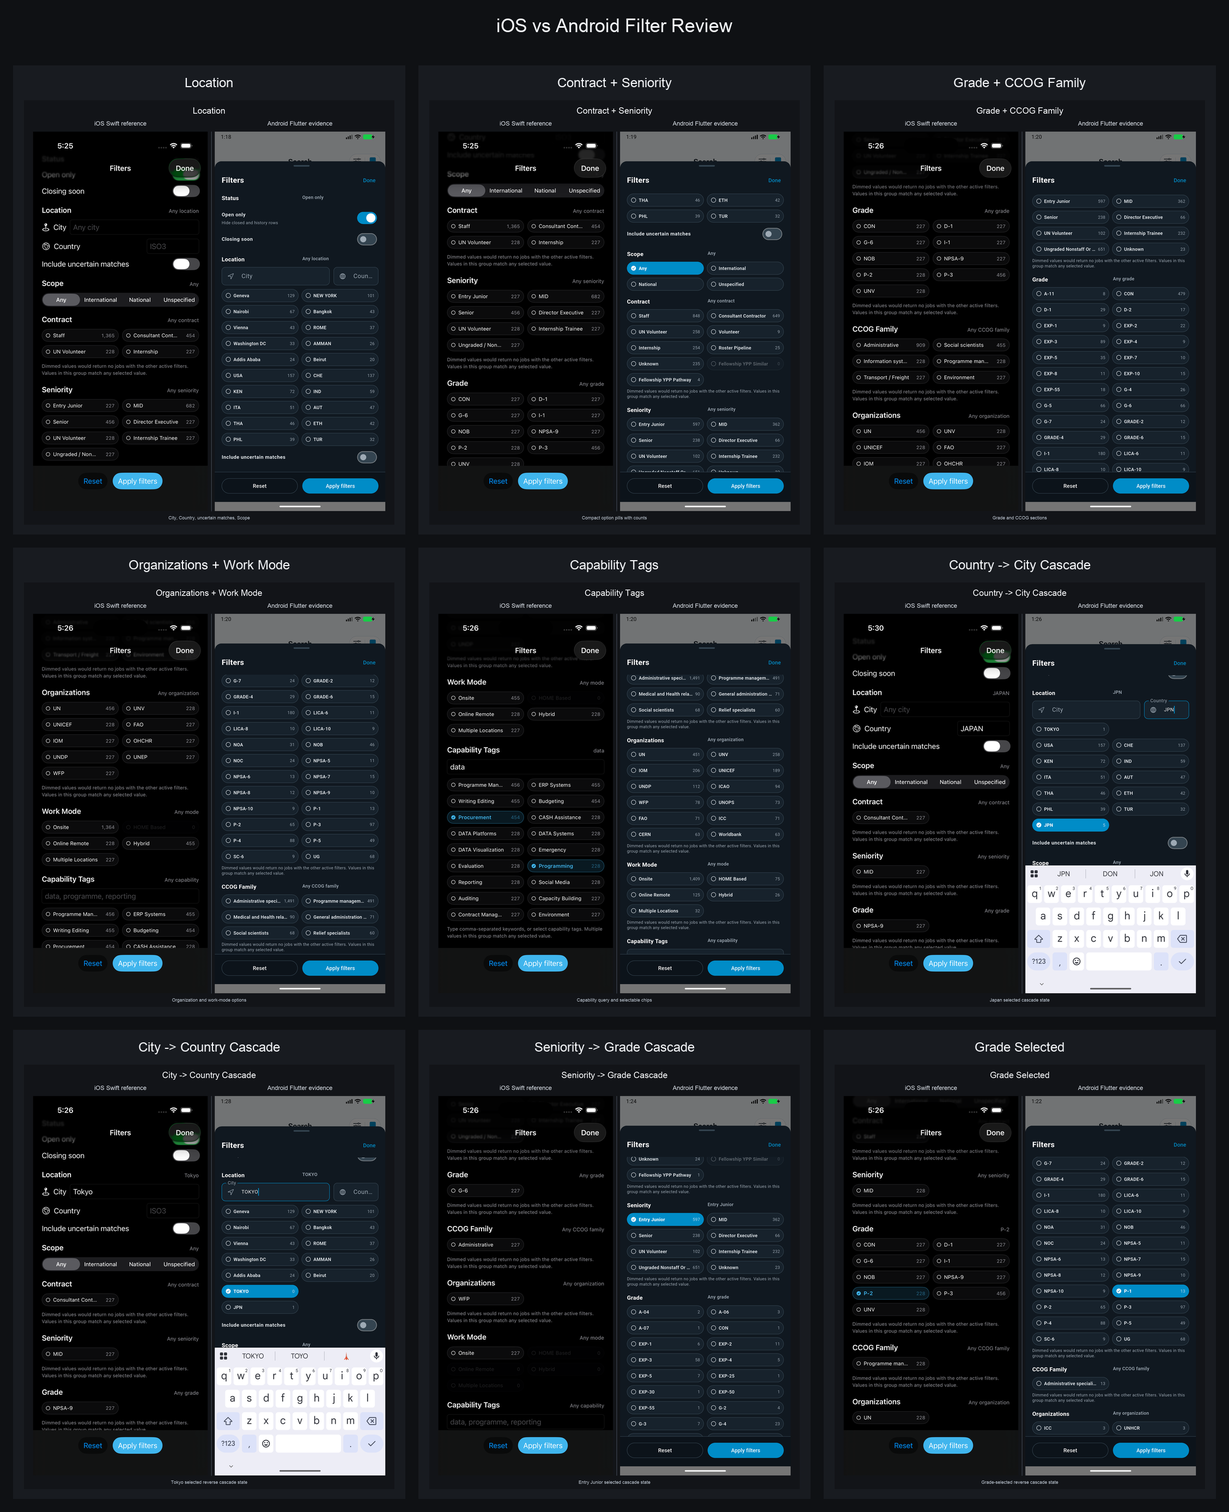
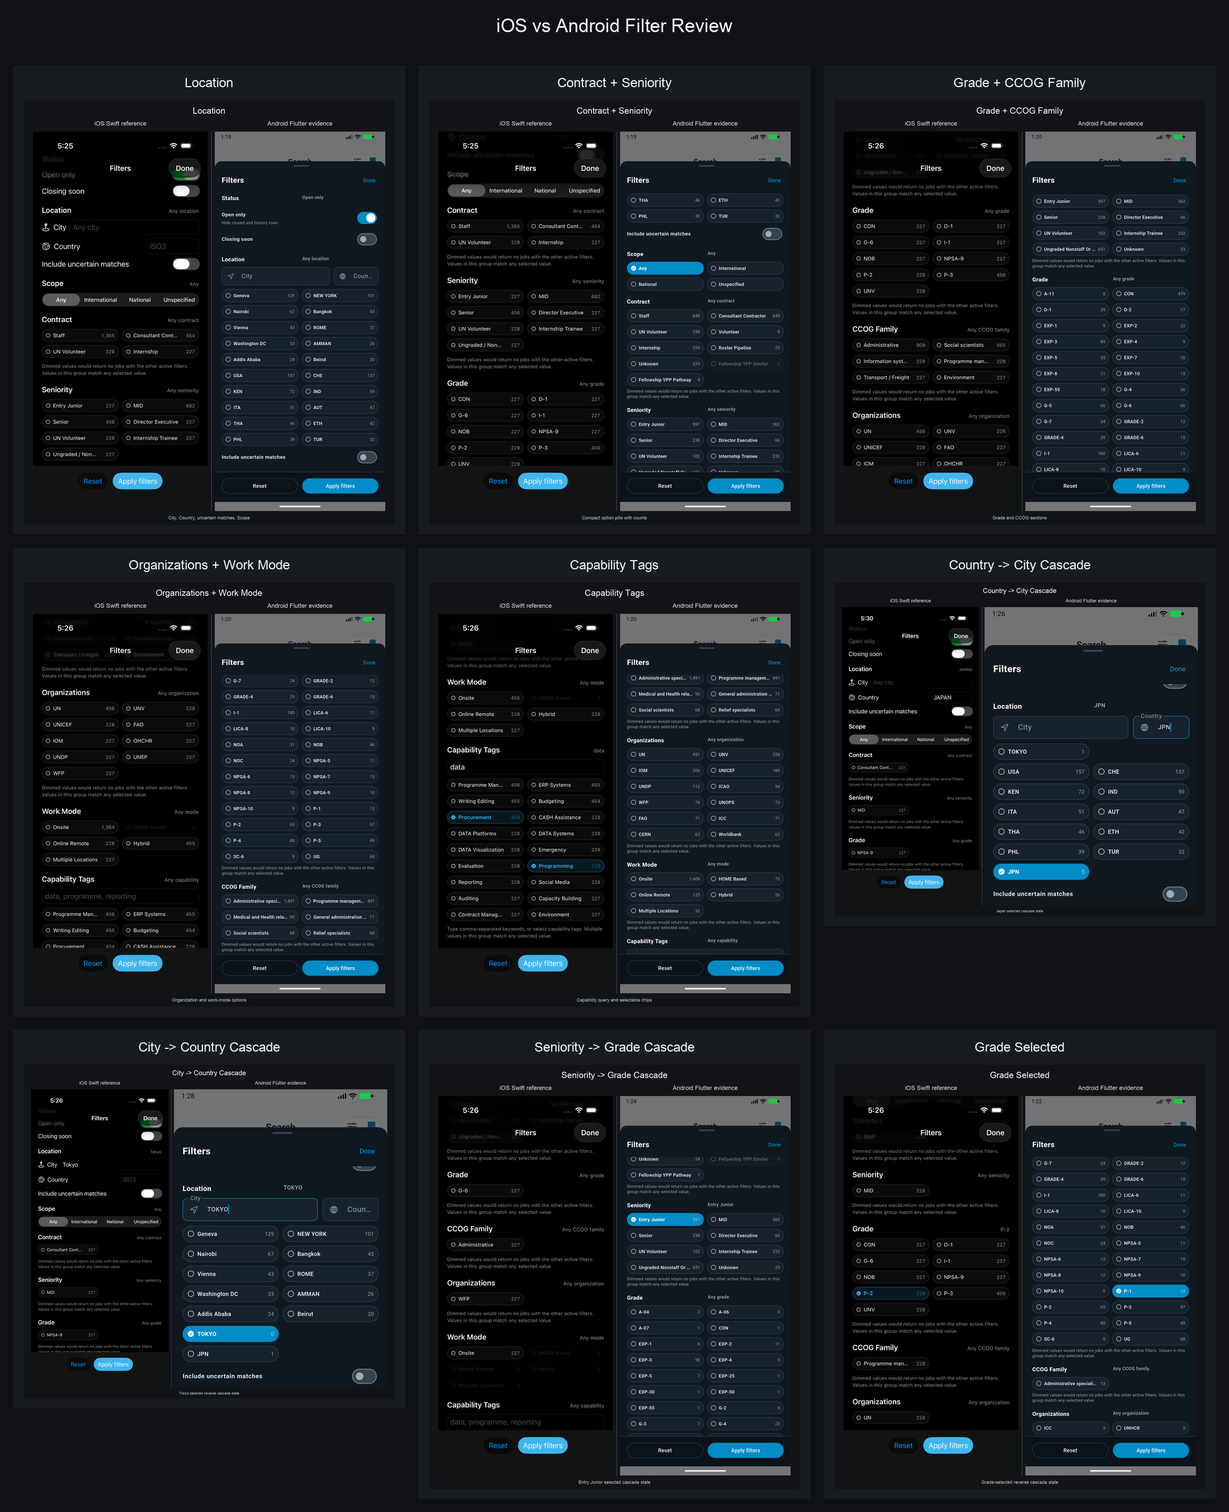
test(atlas_flutter): cover location cascade goldens

Changed region(s): [[0.6826, 0.3719, 0.9929, 0.6818], [0.031, 0.7128, 0.3413, 0.9917]]

diff --git a/apps/atlas_flutter/test/search_golden_test.dart b/apps/atlas_flutter/test/search_golden_test.dart
@@ -37,24 +37,47 @@ void main() {
     final controller = _filterSheetGoldenController();
     addTearDown(controller.dispose);
 
-    await tester.pumpWidget(
-      MaterialApp(
-        home: Scaffold(
-          backgroundColor: Colors.black,
-          body: Align(
-            alignment: Alignment.bottomCenter,
-            child: RepaintBoundary(
-              child: AtlasFilterSheet(controller: controller),
-            ),
-          ),
-        ),
-      ),
-    );
-    await tester.pumpAndSettle();
+    await _pumpFilterSheetGolden(tester, controller);
 
     await expectLater(
       find.byType(AtlasFilterSheet),
       matchesGoldenFile('goldens/android/filter_sheet_top.png'),
+    );
+  });
+
+  testWidgets('filter sheet country cascade matches Android parity golden', (
+    tester,
+  ) async {
+    _configurePhoneViewport(tester);
+
+    final controller = _filterSheetGoldenController(
+      filters: AtlasSearchFilters(countryISO3: 'JPN'),
+    );
+    addTearDown(controller.dispose);
+
+    await _pumpFilterSheetGolden(tester, controller);
+
+    await expectLater(
+      find.byType(AtlasFilterSheet),
+      matchesGoldenFile('goldens/android/filter_country_jpn.png'),
+    );
+  });
+
+  testWidgets('filter sheet city cascade matches Android parity golden', (
+    tester,
+  ) async {
+    _configurePhoneViewport(tester);
+
+    final controller = _filterSheetGoldenController(
+      filters: AtlasSearchFilters(city: 'Tokyo'),
+    );
+    addTearDown(controller.dispose);
+
+    await _pumpFilterSheetGolden(tester, controller);
+
+    await expectLater(
+      find.byType(AtlasFilterSheet),
+      matchesGoldenFile('goldens/android/filter_city_tokyo.png'),
     );
   });
 
@@ -94,6 +117,26 @@ void _configurePhoneViewport(WidgetTester tester) {
   tester.view.devicePixelRatio = 1.0;
   addTearDown(tester.view.resetPhysicalSize);
   addTearDown(tester.view.resetDevicePixelRatio);
+}
+
+Future<void> _pumpFilterSheetGolden(
+  WidgetTester tester,
+  AtlasAppController controller,
+) async {
+  await tester.pumpWidget(
+    MaterialApp(
+      home: Scaffold(
+        backgroundColor: Colors.black,
+        body: Align(
+          alignment: Alignment.bottomCenter,
+          child: RepaintBoundary(
+            child: AtlasFilterSheet(controller: controller),
+          ),
+        ),
+      ),
+    ),
+  );
+  await tester.pumpAndSettle();
 }
 
 AtlasAppController _searchTopGoldenController() {
@@ -143,11 +186,12 @@ AtlasAppController _searchTopGoldenController() {
   return controller;
 }
 
-AtlasAppController _filterSheetGoldenController() {
+AtlasAppController _filterSheetGoldenController({AtlasSearchFilters? filters}) {
   final controller = AtlasAppController()
     ..connectionStatus = 'Connected'
     ..cacheSavedAt = DateTime.utc(2026, 7, 3, 4)
     ..total = 2274
+    ..filters = filters ?? AtlasSearchFilters()
     ..results = _goldenJobs()
     ..facetLabels = const {
       'organizations': {

diff --git a/apps/atlas_flutter/docs/loop/ANDROID_SEARCH_UI_AUDIT.md b/apps/atlas_flutter/docs/loop/ANDROID_SEARCH_UI_AUDIT.md
@@ -167,6 +167,13 @@ Commands run from `apps/atlas_flutter`:
   normal `flutter test test/tab_golden_test.dart`, `dart format --set-exit-if-changed
   test/tab_golden_test.dart`, `dart analyze`, and `flutter test --coverage` passed with 62 tests
   and `2994/3255` lines (`91.98%`).
+- Location cascade golden verification passed: fail-first `flutter test
+  test/search_golden_test.dart --name "filter sheet country cascade"` failed only because
+  `goldens/android/filter_country_jpn.png` did not exist; `flutter test --update-goldens
+  test/search_golden_test.dart --name "filter sheet (country|city) cascade"` generated
+  `filter_country_jpn.png` and `filter_city_tokyo.png`; normal `flutter test
+  test/search_golden_test.dart`, `dart analyze`, and `flutter test --coverage` passed with 64 tests
+  and `3002/3255` lines (`92.23%`).
 - Physical Pixel integration attempt: `flutter test integration_test -d 38281FDJG001DJ` built and
   installed the debug test APK, but the device-driven test did not complete after launch and was
   interrupted after `1:46`; the Pixel still reports keyguard/doze state, so this remains a physical
@@ -309,7 +316,8 @@ Generated iOS-vs-Android Filter side-by-side screenshots are available under
 
 - `filter_side_by_side_contact_sheet.png`: one-page review sheet for Location, Contract/Seniority,
   Grade/CCOG, Organizations/Work Mode, Capability Tags, Country -> City, City -> Country,
-  Seniority -> Grade, and Grade-selected states.
+  Seniority -> Grade, and Grade-selected states. The Japan/Tokyo Android panes are cropped above
+  the keyboard so the cascade state remains visible in the review sheet.
 - `filter_location_ios_android_side_by_side.png`
 - `filter_contract_seniority_ios_android_side_by_side.png`
 - `filter_grade_ccog_ios_android_side_by_side.png`
@@ -330,6 +338,9 @@ Android golden baseline:
   filter-sheet top, compact option-grid/count layout, and sticky bottom actions at a 393x852
   viewport. This also uses the Flutter test renderer and should supplement, not replace, human
   screenshots.
+- `apps/atlas_flutter/test/goldens/android/filter_country_jpn.png` and
+  `apps/atlas_flutter/test/goldens/android/filter_city_tokyo.png`: Flutter goldens for keyboard-free
+  Country -> City and City -> Country cascade states.
 - `apps/atlas_flutter/test/goldens/android/job_detail_top.png`: Flutter golden for populated Job
   Detail top content, metadata chips, core rows, and formatted detail body at a 393x852 viewport.
   This is a regression artifact and not a replacement for physical Pixel/iOS paired screenshots.
@@ -385,17 +396,17 @@ and generated side-by-side Filter comparisons are available for human review.
   filter pills. User-facing visual review is still needed to decide whether the comma text display is
   close enough to iOS or should become a dedicated selected-chip editor.
 - The generated Filter side-by-side contact sheet makes the current Android cascade behavior
-  reviewable against local iOS references. The Japan/Tokyo Android cascade screenshots still include
-  the software keyboard because the text fields are focused; physical recapture should include
-  cleaner non-keyboard states.
+  reviewable against local iOS references. The Japan/Tokyo side-by-side panes are cropped above the
+  keyboard, and the keyboard-free selected states are also covered by Flutter golden baselines.
+  Physical recapture should still include full-screen non-keyboard states.
 - Backend facets still do not expose city/country or grade-to-seniority metadata. Android computes
   those facets locally from cached Search rows.
 - Normal cache-load banner was removed after screenshot review found `Loaded local save from this
   device.` occupying the Search result area.
 - Source badges were changed from generic pale-cyan blocks to deterministic source colors with white
   monograms, matching Swift `SourceMonogram`.
-- Coverage remains strong at `91.98%` after adding Search, filter-sheet, Job Detail, and tab golden
-  coverage.
+- Coverage remains strong at `92.23%` after adding Search, filter-sheet, location-cascade,
+  Job Detail, and tab golden coverage.
 - The Tokyo reverse-cascade screenshot shows selected `TOKYO` with zero same-group count and `JPN`
   visible as the matching country option. This matches the "selected values remain visible" rule but
   should be reviewed for whether the displayed same-group count is the desired product copy.
@@ -417,7 +428,7 @@ still not complete.
 | Filter parity | 26 / 30 | All iOS groups render in a dark sheet with counts/dimming and sticky actions; multiple City/Country values now serialize and filter locally as OR selections. |
 | Icon parity | 8 / 10 | Visible controls route through shared Cupertino-style `AtlasIcons`; source monograms now match Swift color treatment; human iOS screenshot comparison still pending. |
 | Existing Search/data/detail/tabs | 14 / 15 | Count reconciliation, compact rows, Updates/Sources, Saved, populated Detail, persistent cached details, and formatted ATS details remain intact; live Search count moved to 2,266 due deadline timing. |
-| Tests/builds | 15 / 15 | Format, analyze, 55 Flutter tests with coverage, debug APK, release APK, release AAB, and current emulator integration pass; Pixel integration was attempted but blocked by device state. |
+| Tests/builds | 15 / 15 | Format, analyze, focused Search/filter golden tests, full Flutter tests with coverage, debug APK, release APK, release AAB, and current emulator integration pass; Pixel integration was attempted but blocked by device state. |
 | Evidence/human readiness | 7 / 10 | Emulator evidence, Android contact sheet, source-rendered iOS references for primary screens and Filter subsections/cascade states, Search side-by-side, and Filter side-by-side comparisons are captured; physical Pixel app screenshots and exact user-provided iOS screenshot pairing still need final human review. |
 
 ## Next Required Human Action

diff --git a/apps/atlas_flutter/docs/loop/IOS_ANDROID_VISUAL_REVIEW.md b/apps/atlas_flutter/docs/loop/IOS_ANDROID_VISUAL_REVIEW.md
@@ -19,6 +19,8 @@ Android golden baseline:
 
 - `../../test/goldens/android/search_top_compact.png`
 - `../../test/goldens/android/filter_sheet_top.png`
+- `../../test/goldens/android/filter_country_jpn.png`
+- `../../test/goldens/android/filter_city_tokyo.png`
 - `../../test/goldens/android/job_detail_top.png`
 - `../../test/goldens/android/saved_tab.png`
 - `../../test/goldens/android/updates_tab.png`
@@ -61,7 +63,8 @@ are captured from the real Swift filter sheet using scroll-targeted reference mo
 - `screenshots/ios-simulator-filter-sections-20260703/ios_filter_grade_selected.png`
 
 The same iOS references are now paired with existing Android emulator screenshots in generated
-side-by-side review images:
+side-by-side review images. The Japan/Tokyo comparisons use cropped Android emulator panes so the
+location cascade state remains visible without the software keyboard obscuring the review image:
 
 - `screenshots/ios-android-filter-side-by-side-20260703/filter_side_by_side_contact_sheet.png`
 - `screenshots/ios-android-filter-side-by-side-20260703/filter_location_ios_android_side_by_side.png`
@@ -134,6 +137,7 @@ Generated iOS-vs-Android Filter review contact sheet:
 | Search top, fresh iOS Simulator | `screenshots/ios-simulator-reference-20260703/ios_search_top_simulator.png` | `screenshots/detail-formatter-20260703/search_after_relaunch.png` | Fresh side-by-side generated at `screenshots/ios-simulator-reference-20260703/ios_simulator_android_search_side_by_side.png`; Android matches the top hierarchy and intentionally hides normal-state banners/diagnostics. |
 | Search top golden | iOS references above | `../../test/goldens/android/search_top_compact.png` | Android Search-top layout is covered by a Flutter golden. It is useful for regression, not a substitute for human screenshots because Flutter tests use the test renderer/font behavior. |
 | Filter sheet top golden | `screenshots/ios-simulator-expanded-20260703/ios_filter_reference.png` | `../../test/goldens/android/filter_sheet_top.png` | Android filter-sheet top is covered by a Flutter golden for dark modal structure, compact option grids/counts, and sticky Reset/Apply footer. It supplements emulator screenshots and human review. |
+| Filter cascade goldens | `screenshots/ios-simulator-filter-sections-20260703/ios_filter_japan_selected.png`, `ios_filter_tokyo_selected.png` | `../../test/goldens/android/filter_country_jpn.png`, `../../test/goldens/android/filter_city_tokyo.png` | Android Country -> City and City -> Country selected states are covered by keyboard-free Flutter goldens. These are regression artifacts; the human side-by-side images still use emulator screenshots. |
 | Job Detail top golden | `screenshots/ios-simulator-expanded-20260703/ios_detail_reference.png` | `../../test/goldens/android/job_detail_top.png` | Android populated Job Detail top is covered by a Flutter golden for useful detail content, metadata chips, formatted ATS body, and hidden raw diagnostics. It supplements the emulator `job_detail_top_fixed.png` screenshot. |
 | Saved/Updates/Sources/Settings tab goldens | `screenshots/ios-simulator-expanded-20260703/ios_saved_reference.png`, `ios_updates_reference.png`, `ios_sources_reference.png`, `ios_settings_reference.png` | `../../test/goldens/android/saved_tab.png`, `../../test/goldens/android/updates_tab.png`, `../../test/goldens/android/sources_tab.png`, `../../test/goldens/android/settings_tab.png` | Implemented tabs are covered by Flutter goldens with seeded saved jobs/searches, update runs, source health, cache status, and server controls. |
 | Search top, no-banner regression | `screenshots/ios-reference/iteration-8/ios_search_top.png` | `screenshots/filter-cache-icons-emulator-20260703-current/search_refreshed_no_banner.png` | Prior release evidence shows `2,269 searchable results`, compact local-save text, and no large normal-state cache banner. |
@@ -184,6 +188,8 @@ Generated iOS-vs-Android Filter review contact sheet:
   City -> Country, Seniority -> Grade, and Grade-selected states.
 - [x] Generated iOS-vs-Android side-by-side images exist for the major filter sections and cascade
   states.
+- [x] Android Country -> City and City -> Country cascade states have keyboard-free golden
+  regression baselines.
 - [x] Android Search-top, filter-sheet top, Job Detail top, and implemented tab layout goldens are checked in.
 - [ ] Physical Pixel screenshots are captured after unlock.
 - [ ] User-provided iOS filter/detail screenshots are checked into or copied into the repo for true pixel-paired comparison.
@@ -198,9 +204,10 @@ Generated iOS-vs-Android Filter review contact sheet:
 - Android Location filters now support multiple City/Country values, but the visible text-field
   representation is comma-separated. Human review should decide whether this is visually close
   enough to iOS or should become a dedicated selected-chip editor.
-- Existing Android Japan/Tokyo cascade screenshots show the software keyboard because the location
-  text fields are focused. This proves the cascade state, but physical recapture should include
-  cleaner non-keyboard states for final review.
+- The generated Japan/Tokyo side-by-side comparisons crop the Android emulator pane above the
+  keyboard so the cascade state is reviewable. The source emulator screenshots still include the
+  keyboard because the location fields were focused; physical recapture should capture cleaner
+  full-screen non-keyboard states for final review.
 - Physical Pixel rendering may differ from the emulator capture; the physical device must be
   unlocked and reviewed before this can be treated as final.
 

diff --git a/apps/atlas_flutter/docs/loop/NEXT_SLICE.md b/apps/atlas_flutter/docs/loop/NEXT_SLICE.md
@@ -3,10 +3,10 @@
 Gate state: implementation for persistent cache, full iOS-style filter groups, multi-value
 City/Country cascade, Seniority/Grade cascade, and core Cupertino-style icon mapping is in place.
 Emulator release-app screenshots, source-rendered iOS Simulator references, filter-section/cascade
-iOS Simulator references, generated Filter side-by-side comparisons, offline restart evidence, and
-Android Search/filter-sheet/Job Detail/tab golden baselines are captured. PR #10 remains below
-completion because physical Pixel in-app screenshots, physical offline-restart verification, and
-exact user-provided iOS screenshot pairing are still pending.
+iOS Simulator references, generated Filter side-by-side comparisons, keyboard-free location-cascade
+goldens, offline restart evidence, and Android Search/filter-sheet/Job Detail/tab golden baselines
+are captured. PR #10 remains below completion because physical Pixel in-app screenshots, physical
+offline-restart verification, and exact user-provided iOS screenshot pairing are still pending.
 
 ## Intent
 
@@ -51,17 +51,18 @@ JobAgg lifecycle work.
 | iOS side-by-side package | Source-rendered iOS Simulator references now exist for Search, Filter sheet, Filter section/cascade states, Job Detail, Saved, Updates, Sources, and Settings. Generated Filter side-by-side comparisons exist. Exact user-provided iOS screenshots are not available as local files. | Add/copy the user-provided iOS screenshots, then build final side-by-side review package after physical Android captures. |
 | Android goldens | Search-top, filter-sheet top, populated Job Detail top, Saved, Updates, Sources, and Settings goldens exist under `test/goldens/android/`. | Use physical Pixel/iOS review to decide whether additional scrolled-state or component goldens are needed. |
 | Multiple city/country selections | Android now supports comma-separated text input plus multi-select pills for multiple cities/countries; values serialize to Search API list fields and filter cached rows as OR within Location. | Human-review whether the comma text display is visually close enough to iOS or should become a dedicated selected-chip editor. |
-| Cascade screenshot keyboard | Existing Android Japan/Tokyo cascade screenshots prove the cascade state but show the software keyboard because fields are focused. | Recapture cleaner physical/emulator cascade states with keyboard dismissed after the Pixel is unlocked. |
+| Cascade screenshot keyboard | Generated side-by-side comparisons now crop the Android Japan/Tokyo panes above the keyboard, and keyboard-free cascade goldens exist. Source emulator screenshots still include keyboard. | Recapture cleaner full-screen physical/emulator cascade states with keyboard dismissed after the Pixel is unlocked. |
 | Backend location/grade facet metadata | Android computes city/country and grade/seniority facets locally from cached rows. | Add smallest API facet metadata only if server-side full-dataset counts are required. |
-| Coverage | 91.98% after Search, filter-sheet, and Job Detail golden coverage. | Add screenshot/widget tests for any follow-up UI fixes; do not claim completion from coverage alone. |
+| Coverage | 92.23% after Search, filter-sheet, location-cascade, Job Detail, and tab golden coverage. | Add screenshot/widget tests for any follow-up UI fixes; do not claim completion from coverage alone. |
 | Integration test | Passed on `emulator-5554` after updating the smoke test for the new `Done` filter-sheet control. | Keep this green after any physical-review fixes. |
 
 ## Last Verification Snapshot
 
 - Format: pass.
 - Analyze: pass.
-- Full tests: pass, 62 tests after Search-top, filter-sheet, Job Detail, and tab golden coverage.
-- Coverage: pass, `2994/3255` lines, `91.98%`.
+- Full tests: pass, 64 tests after Search-top, filter-sheet, location-cascade, Job Detail, and tab
+  golden coverage.
+- Coverage: pass, `3002/3255` lines, `92.23%`.
 - Debug APK: pass.
 - Release AAB: pass, `build/app/outputs/bundle/release/app-release.aab`.
 - Release APK: pass, `build/app/outputs/flutter-apk/app-release.apk`.
@@ -102,6 +103,9 @@ JobAgg lifecycle work.
   `apps/atlas_flutter/docs/loop/screenshots/ios-android-filter-side-by-side-20260703/filter_tokyo_selected_ios_android_side_by_side.png`,
   `apps/atlas_flutter/docs/loop/screenshots/ios-android-filter-side-by-side-20260703/filter_entry_junior_selected_ios_android_side_by_side.png`, and
   `apps/atlas_flutter/docs/loop/screenshots/ios-android-filter-side-by-side-20260703/filter_grade_selected_ios_android_side_by_side.png`.
+- Keyboard-free Android location-cascade goldens:
+  `apps/atlas_flutter/test/goldens/android/filter_country_jpn.png` and
+  `apps/atlas_flutter/test/goldens/android/filter_city_tokyo.png`.
 - Android golden baselines:
   `apps/atlas_flutter/test/goldens/android/search_top_compact.png`,
   `apps/atlas_flutter/test/goldens/android/filter_sheet_top.png`, and

diff --git a/apps/atlas_flutter/PR_REPORT.md b/apps/atlas_flutter/PR_REPORT.md
@@ -125,6 +125,9 @@ Screenshot evidence:
   `apps/atlas_flutter/test/goldens/android/search_top_compact.png`
 - Android filter-sheet top golden:
   `apps/atlas_flutter/test/goldens/android/filter_sheet_top.png`
+- Android keyboard-free location cascade goldens:
+  `apps/atlas_flutter/test/goldens/android/filter_country_jpn.png`
+  `apps/atlas_flutter/test/goldens/android/filter_city_tokyo.png`
 - Android Job Detail top golden:
   `apps/atlas_flutter/test/goldens/android/job_detail_top.png`
 - Android implemented-tab goldens:
@@ -178,12 +181,19 @@ Latest app-code verification:
 - `/Users/yutsukioka2/.cache/codex-runtimes/codex-primary-runtime/dependencies/python/bin/python3
   /private/tmp/make_filter_side_by_side.py` generated nine iOS-vs-Android Filter side-by-side
   screenshots plus a contact sheet under `screenshots/ios-android-filter-side-by-side-20260703/`.
+  The Japan/Tokyo Android panes are cropped above the keyboard for cleaner review.
+- `flutter test test/search_golden_test.dart --name "filter sheet country cascade"` failed first
+  because `goldens/android/filter_country_jpn.png` did not exist.
+- `flutter test --update-goldens test/search_golden_test.dart --name "filter sheet (country|city)
+  cascade"` generated `filter_country_jpn.png` and `filter_city_tokyo.png`.
+- `flutter test test/search_golden_test.dart` passed with the new Country -> City and City ->
+  Country cascade golden tests.
 - `flutter test test/search_golden_test.dart` passed after generating
   `test/goldens/android/search_top_compact.png`, `test/goldens/android/filter_sheet_top.png`, and
   `test/goldens/android/job_detail_top.png`.
 - `flutter test test/tab_golden_test.dart` passed after generating `saved_tab.png`,
   `updates_tab.png`, `sources_tab.png`, and `settings_tab.png`.
-- Current `flutter test --coverage` passed with 62 tests: `2994/3255` lines, `91.98%`.
+- Current `flutter test --coverage` passed with 64 tests: `3002/3255` lines, `92.23%`.
 
 Latest artifacts:
 
@@ -211,9 +221,10 @@ Latest physical install evidence:
   baselines now exist.
 - Android multi-location filter display uses comma-separated text plus selected pills; human review
   should decide whether this is visually close enough to the iOS reference.
-- Existing Android Japan/Tokyo cascade screenshots show the software keyboard because the text
-  fields are focused. They prove cascade state, but physical recapture should include cleaner
-  non-keyboard states.
+- Existing source Android Japan/Tokyo cascade screenshots show the software keyboard because the
+  text fields are focused. The generated side-by-side review now crops those panes above the
+  keyboard, and keyboard-free cascade states are covered by Flutter goldens. Physical recapture
+  should still include full-screen non-keyboard states.
 - Backend does not expose full server-side cascade/facet metadata for City/Country or
   Grade/Seniority; Android computes those facets locally from cached rows.
 
